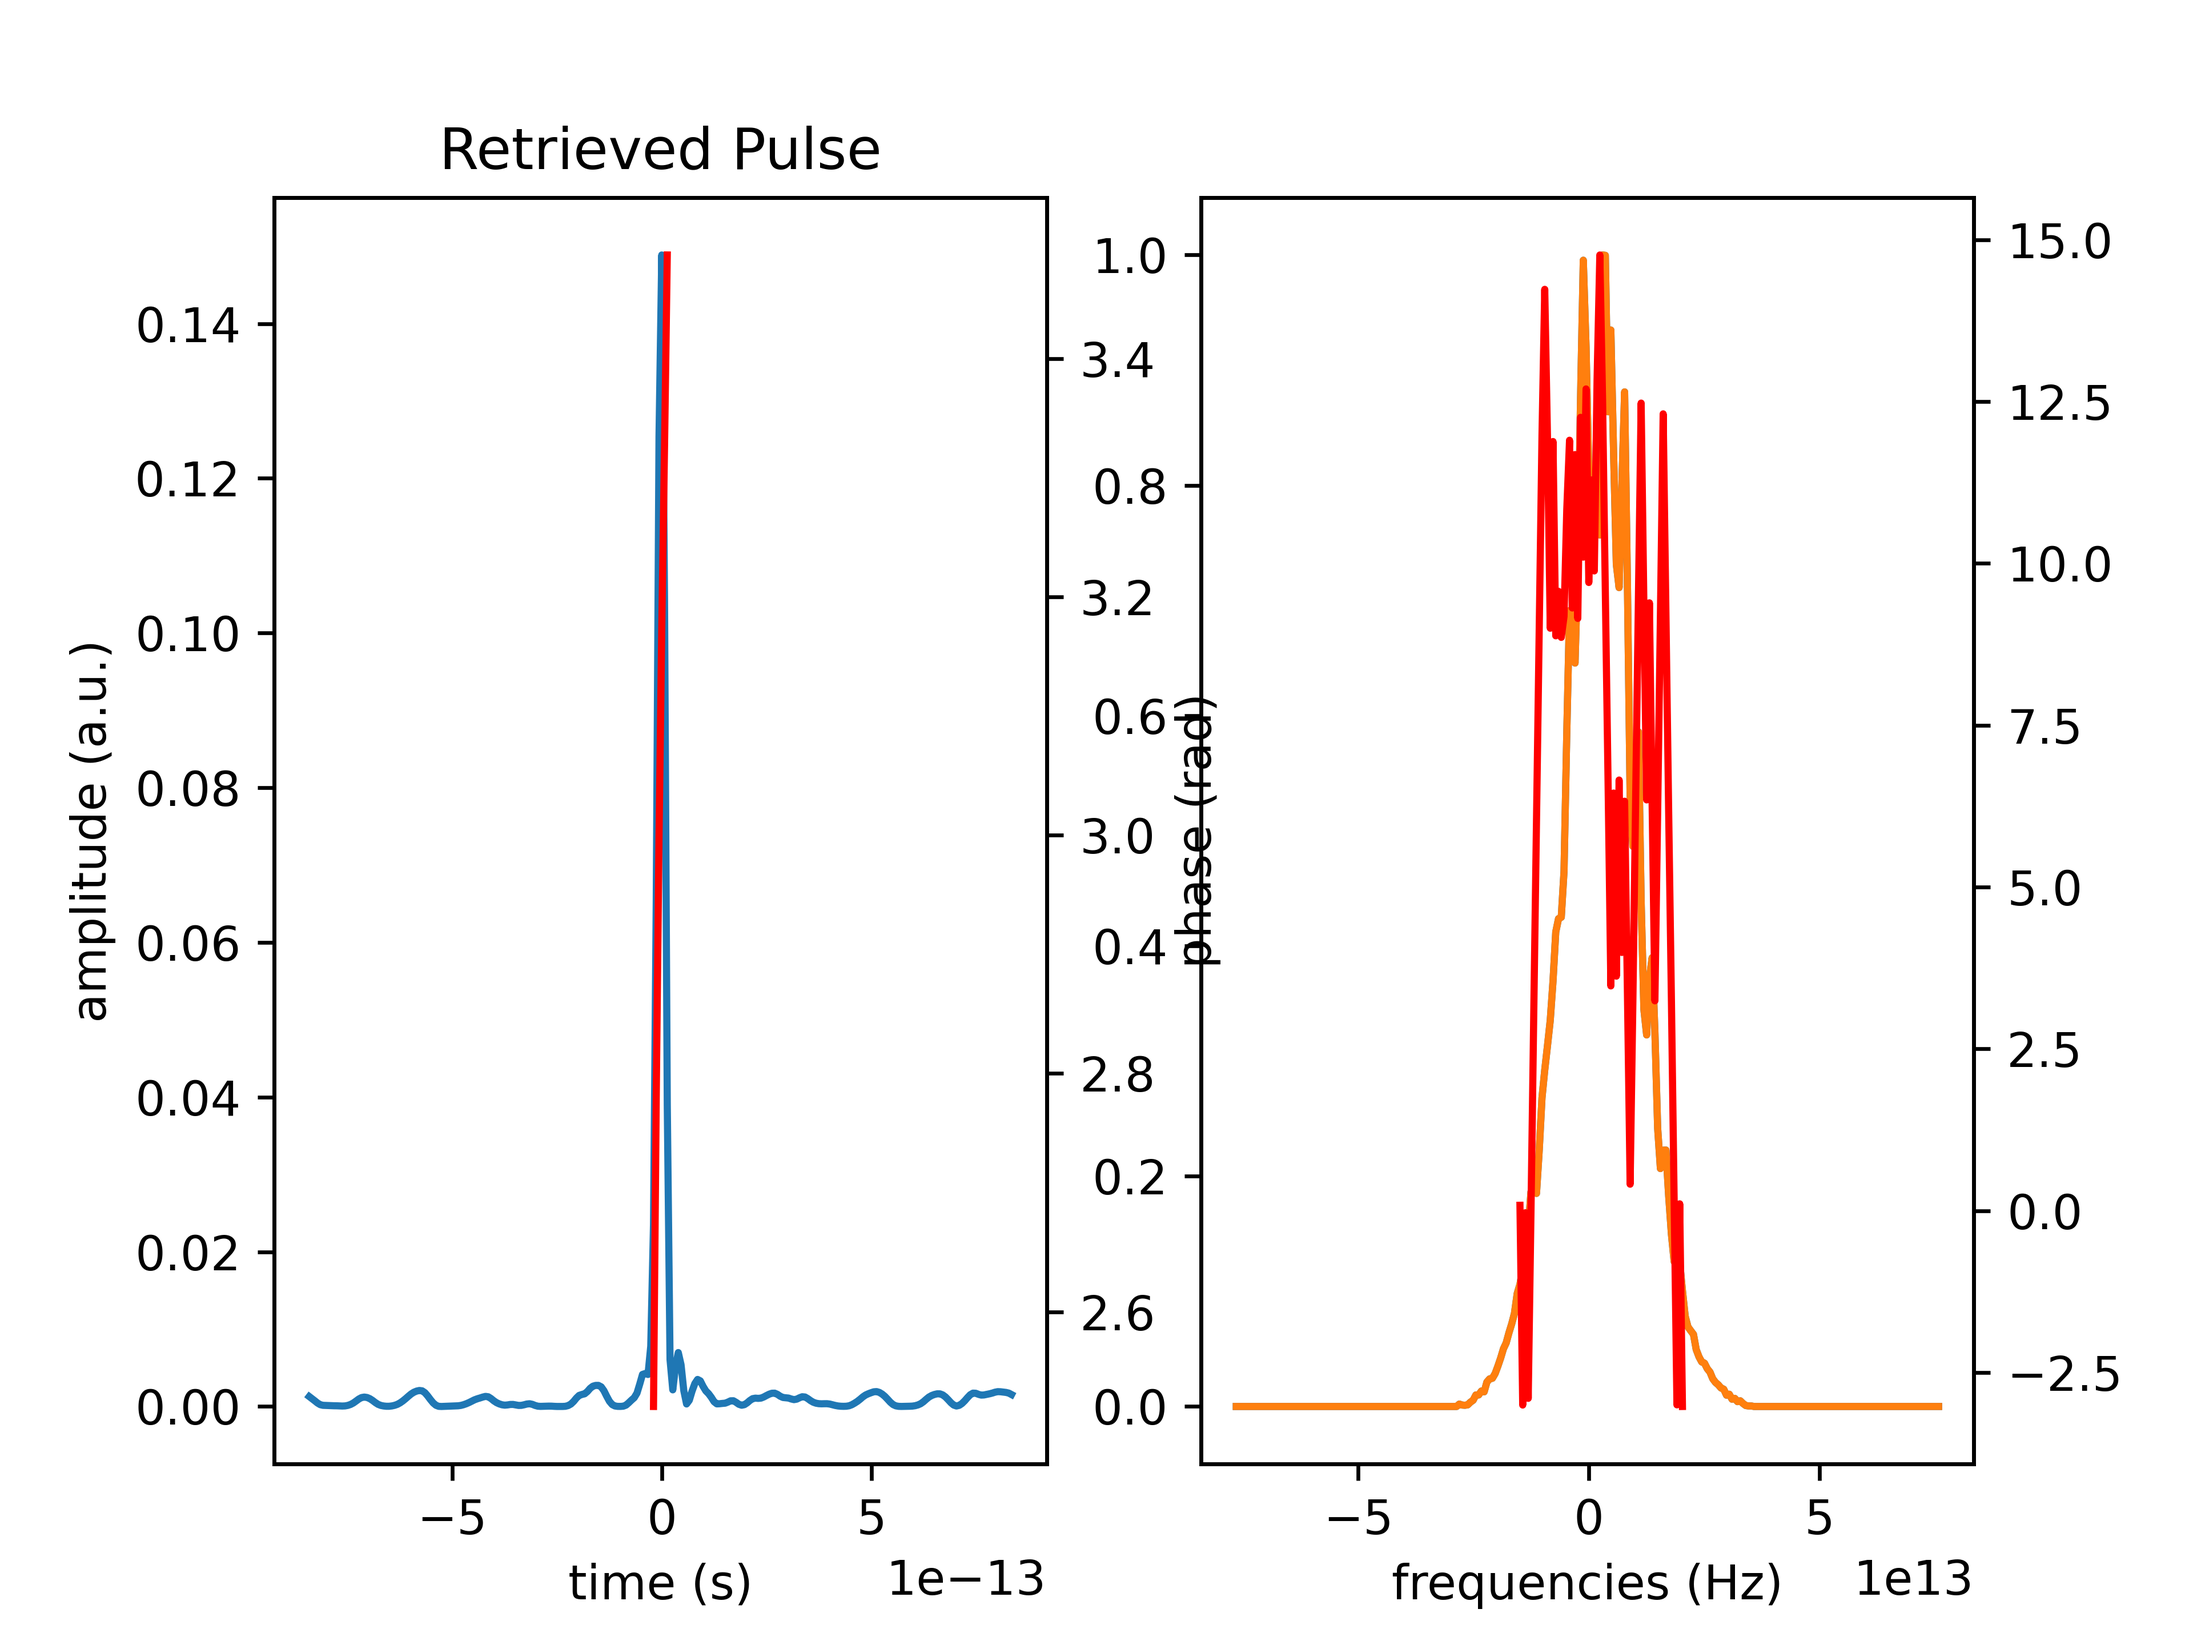
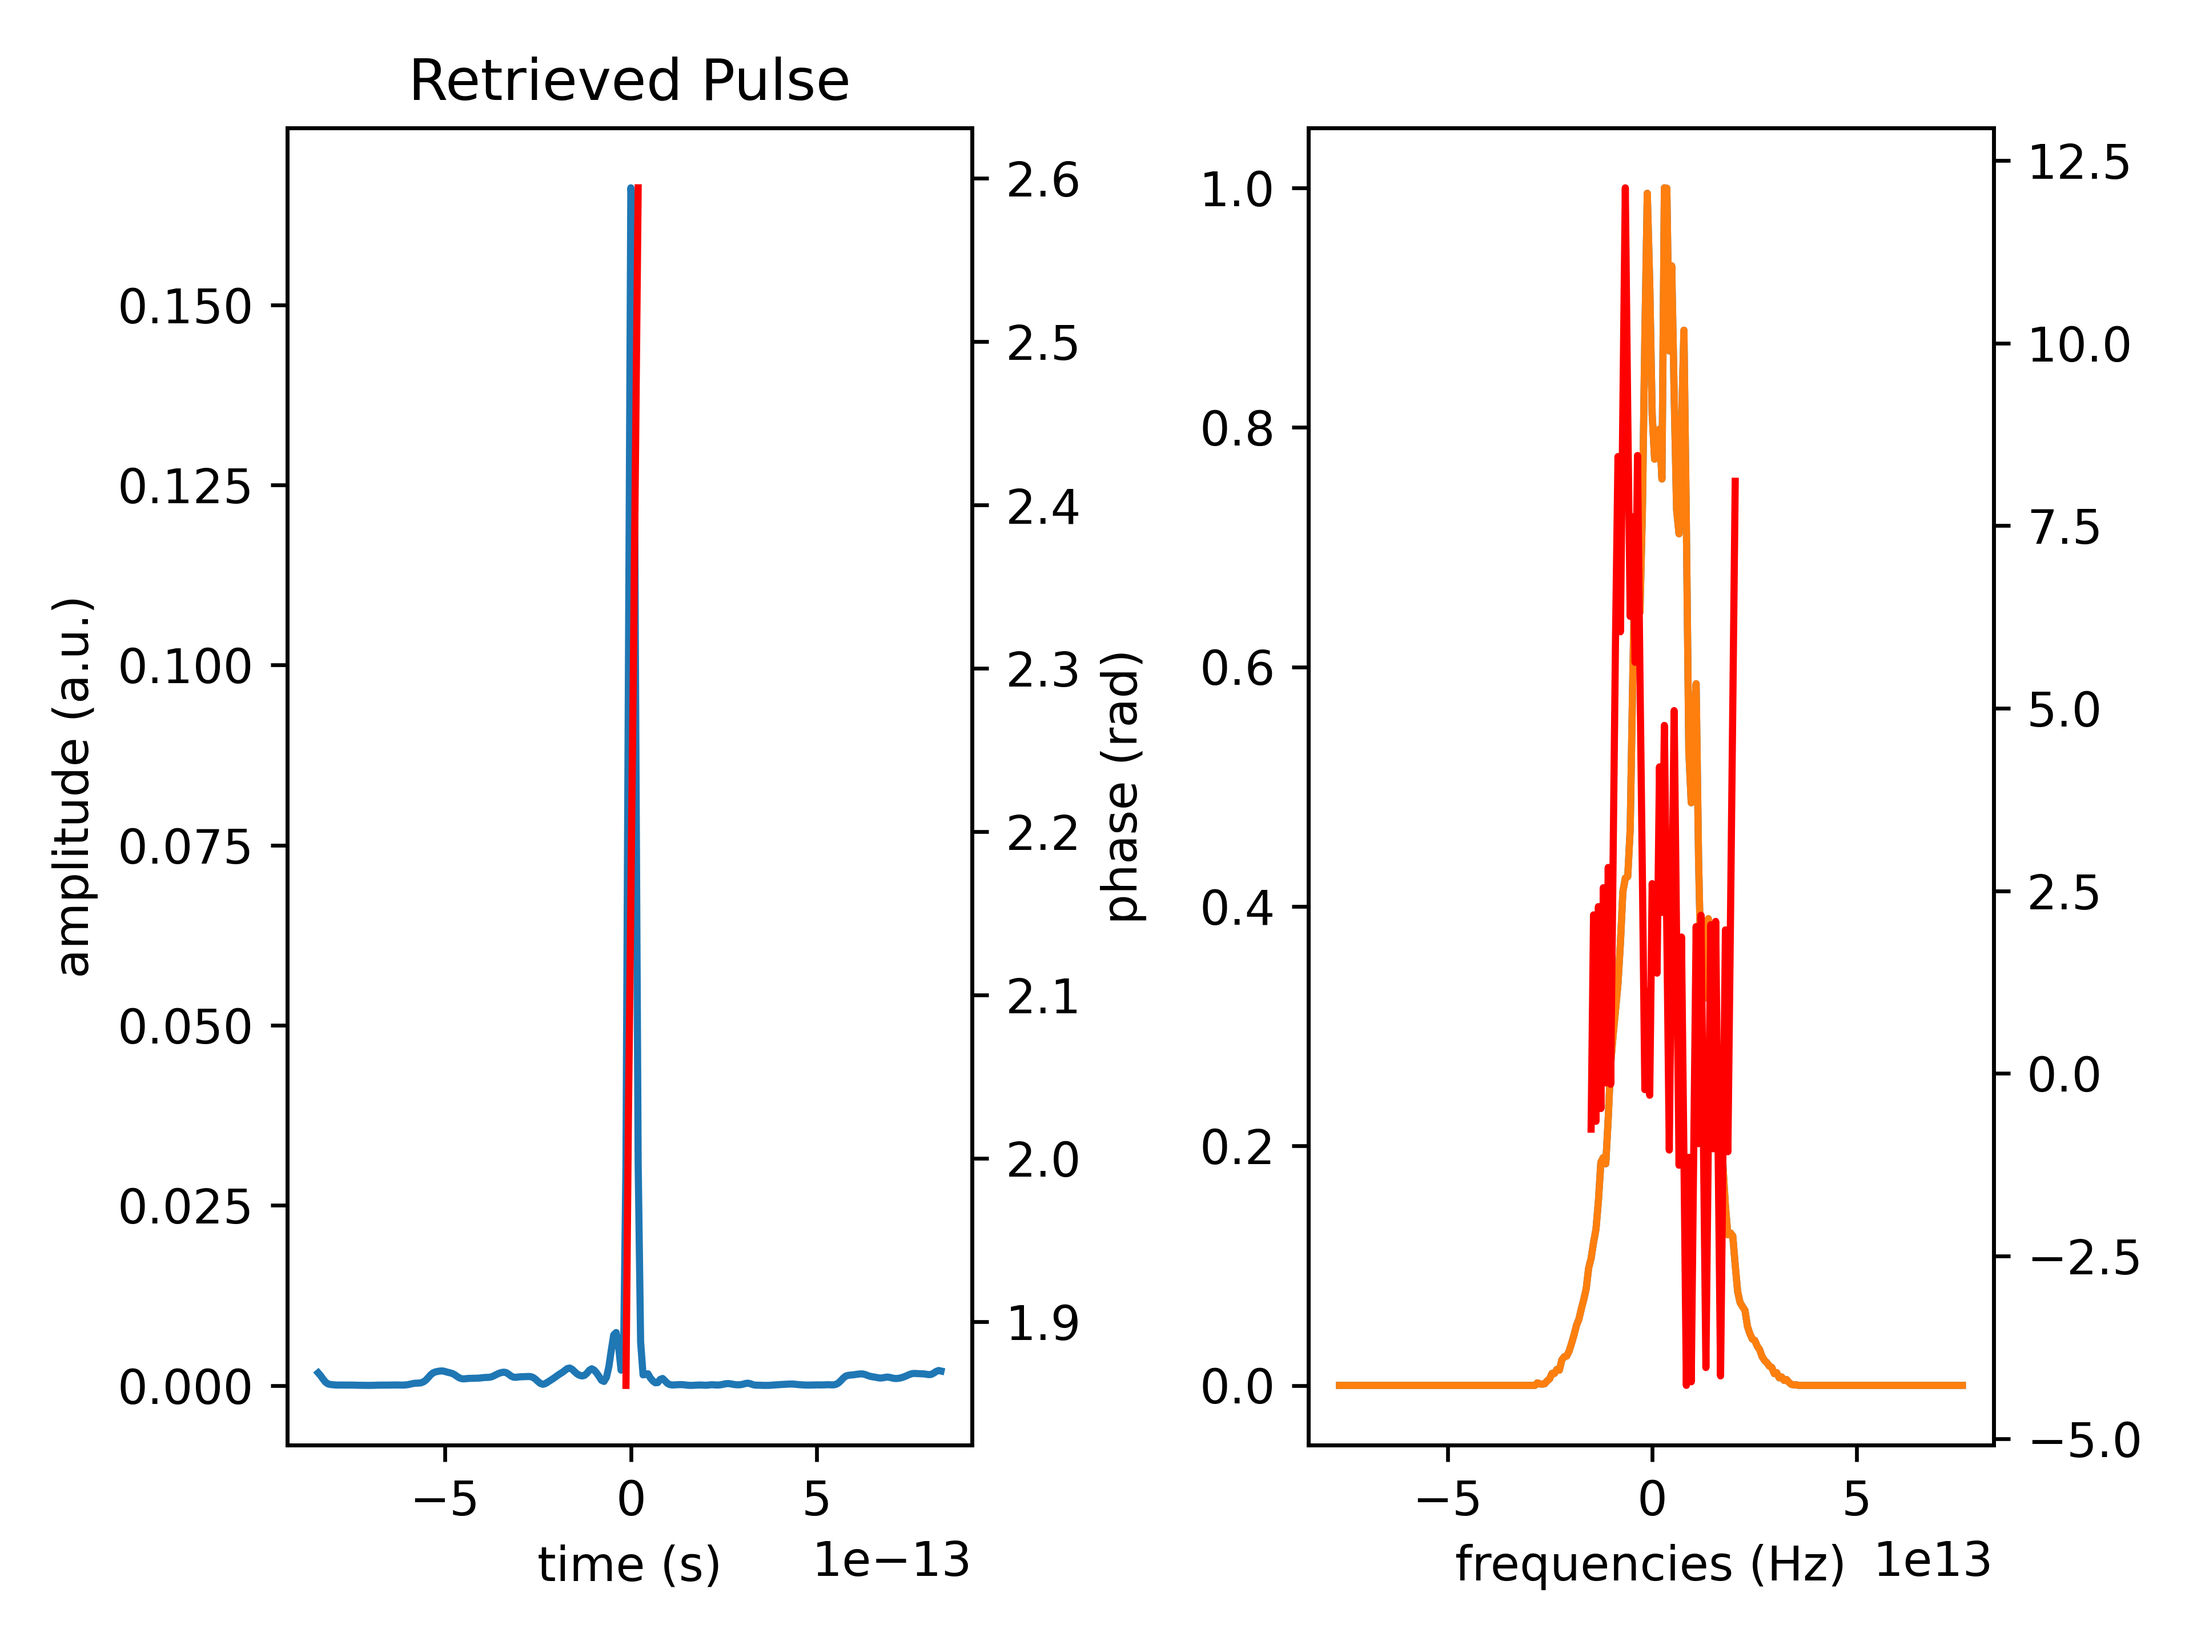
Minor changes

diff --git a/image_processing.py b/image_processing.py
@@ -28,7 +28,7 @@ shifted_data = raw_data - np.min(raw_data)
 plt.imshow(raw_data)
 plt.show()
 
-
+#TODO: Pad spectrum so time resolution is higher
 # FROG image should be square with power of 2 side length if using General Projection.
 # Here the image is interpolated in case this isn't already the case.
 # Also, the dt and dw need to match, so dw = 2*pi/(duration) and dt = 2*pi/(ang. freq. bandwidth)

diff --git a/ptychography.py b/ptychography.py
@@ -206,6 +206,7 @@ axes[1].set_xlabel('frequencies (Hz)')
 index_filter = retrieved_spectrum > np.max(retrieved_spectrum)/10.
 ax_phase = axes[1].twinx()
 ax_phase.plot(shifted_frequencies[index_filter], np.unwrap(np.angle(retrieved_spectral_amplitude[index_filter])), color='red')
+plt.tight_layout()
 plt.savefig(folder+'final_pulse.png', dpi=600)
 plt.show()
 
